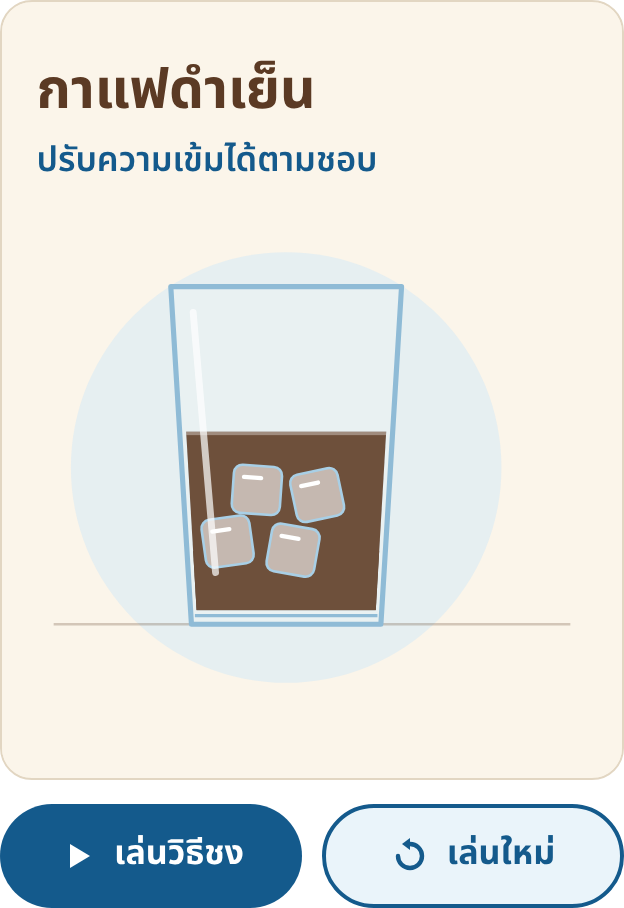
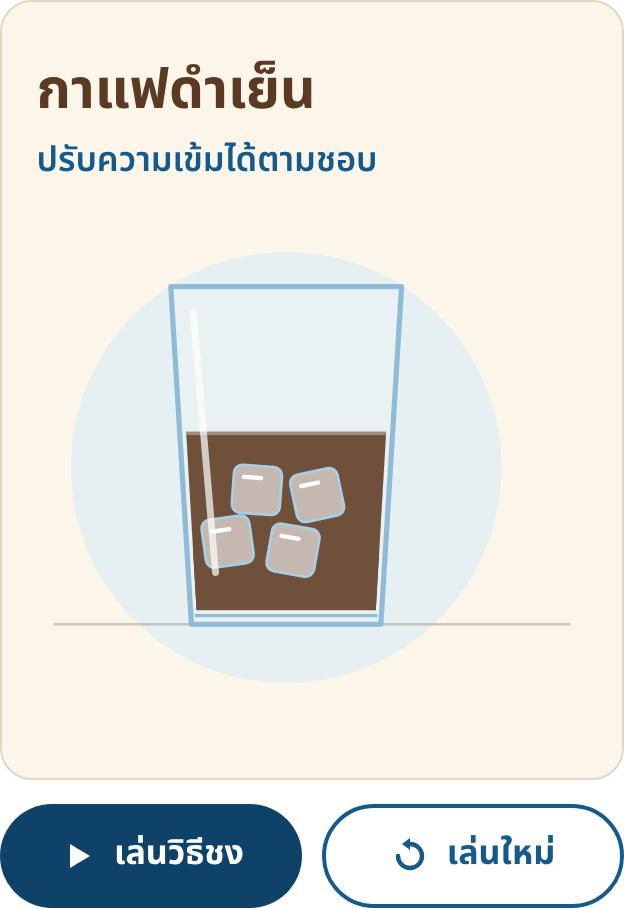
Fix blank Vercel deployment: build config, asset paths, pre-rendered HTML
The Vercel project had no framework preset and the repo had no vercel.json,
so Vercel served the repo root: index.html loaded /src/main.tsx, which a
browser can't run, and the page stayed empty. Separately, Vite's base was
/cold-brew-recipes/ while the build wrote assets to dist/assets/, so even a
built copy would have requested files that don't exist.

- vercel.json: Vite framework, npm ci, npm run build, output dist; / redirects
  to /cold-brew-recipes/, and the page route rewrites to its index.html.
- Build into dist/cold-brew-recipes/ so file paths match the base URL.
- Pre-render the page into index.html and hydrate, so recipes are readable
  before or without JavaScript.
- Optional drink photo per recipe in recipes.ts.
- Pin remotion and @remotion/player to the same exact version.
- Page check now covers routing, refresh, no-JS, image loading, failed
  requests and playback of all four animations; serve-dist.mjs mirrors the
  vercel.json routing locally.

Claude-Session: https://claude.ai/code/session_01NhFLDnAE3nR7iToKXbduQe

Changed region(s): [[0.0, 0.8634, 0.4872, 1.0]]

diff --git a/src/components/RecipeSection.tsx b/src/components/RecipeSection.tsx
@@ -1,5 +1,6 @@
 import { useRef, useState } from "react";
 import { STARTER_NOTE, liquidColors, recipes, type Recipe } from "../config/recipes";
+import { assetUrl } from "../config/site";
 import { RecipeAnimation } from "./RecipeAnimation";
 
 export function RecipeSection() {
@@ -74,6 +75,17 @@ function RecipeDetail({ recipe }: { recipe: Recipe }) {
     <article className="detail" aria-labelledby={`title-${recipe.id}`}>
       <h3 id={`title-${recipe.id}`} className="detail__title">{recipe.name}</h3>
       <p className="note">{STARTER_NOTE}</p>
+      {recipe.photo?.src && (
+        <img
+          className="detail__photo"
+          src={assetUrl(recipe.photo.src)}
+          alt={recipe.photo.alt}
+          width={recipe.photo.width}
+          height={recipe.photo.height}
+          loading="lazy"
+          decoding="async"
+        />
+      )}
 
       <div className="detail__cols">
         <div>

diff --git a/src/main.tsx b/src/main.tsx
@@ -1,13 +1,19 @@
 import { StrictMode } from "react";
-import { createRoot } from "react-dom/client";
+import { createRoot, hydrateRoot } from "react-dom/client";
 import "@fontsource/noto-sans-thai/400.css";
 import "@fontsource/noto-sans-thai/600.css";
 import "@fontsource/noto-sans-thai/700.css";
 import "./styles.css";
 import { App } from "./App";
 
-createRoot(document.getElementById("root")!).render(
+const root = document.getElementById("root")!;
+const app = (
   <StrictMode>
     <App />
-  </StrictMode>,
+  </StrictMode>
 );
+
+// The production build ships the page already rendered (scripts/prerender.mjs), so the
+// recipes are readable before, or without, JavaScript. Attach to it instead of redrawing.
+if (root.hasChildNodes()) hydrateRoot(root, app);
+else createRoot(root).render(app);

diff --git a/src/config/recipes.ts b/src/config/recipes.ts
@@ -23,10 +23,21 @@ export type Pour = {
   caption: string;
 };
 
+export type Photo = {
+  /** Path inside public/, e.g. "images/drink-black.jpg". Leave empty until the photo exists. */
+  src: string;
+  alt: string;
+  /** The photo's real pixel size, so the browser reserves the right space. */
+  width: number;
+  height: number;
+};
+
 export type Recipe = {
   id: string;
   name: string;
   summary: string;
+  /** Optional photo of the finished drink, shown above the ingredients. */
+  photo?: Photo;
   ingredients: Ingredient[];
   steps: [string, string, string];
   /** The two liquids in the order they go into the glass (after the ice). */

diff --git a/vite.config.ts b/vite.config.ts
@@ -1,8 +1,14 @@
 import { defineConfig } from "vite";
 import react from "@vitejs/plugin-react";
 
-// The page is served under /cold-brew-recipes/ (the LINE rich menu links there).
+// The page lives at /cold-brew-recipes/ (the LINE rich menu links there). The build is
+// written to dist/cold-brew-recipes/ so the files sit at the same path on the host as
+// the URLs in the HTML. vercel.json serves dist/ and sends / to this page.
 export default defineConfig({
   base: "/cold-brew-recipes/",
   plugins: [react()],
+  build: {
+    outDir: "dist/cold-brew-recipes",
+    emptyOutDir: true,
+  },
 });

diff --git a/src/entry-server.tsx b/src/entry-server.tsx
@@ -1,0 +1,12 @@
+import { StrictMode } from "react";
+import { renderToString } from "react-dom/server";
+import { App } from "./App";
+
+/** Used at build time (scripts/prerender.mjs) to put the page text into index.html. */
+export function render(): string {
+  return renderToString(
+    <StrictMode>
+      <App />
+    </StrictMode>,
+  );
+}

diff --git a/src/styles.css b/src/styles.css
@@ -347,6 +347,15 @@ main > *,
   color: var(--ocean-deep);
 }
 
+.detail__photo {
+  margin-top: 16px;
+  width: 100%;
+  max-width: 420px;
+  height: auto;
+  border-radius: 16px;
+  background: var(--sky-soft);
+}
+
 .detail__cols {
   display: grid;
   gap: 28px;

diff --git a/README.md b/README.md
@@ -11,17 +11,21 @@ It is a static site built with React 19, TypeScript, Vite and Remotion Player.
 ```bash
 npm install
 npm run dev          # http://localhost:5173/cold-brew-recipes/
-npm run build        # typecheck + production build into dist/
-npm run preview      # serves dist/ at http://localhost:4173/cold-brew-recipes/
+npm run build        # typecheck, build and pre-render into dist/cold-brew-recipes/
+npm run serve:dist   # serves dist/ with the vercel.json routing at http://localhost:4173/
 ```
 
 Page check (Chromium at 390px and 1366px: Thai text, quantities, layout, buttons, player,
 animation length, reduced motion). Writes screenshots to `screenshots/`:
 
 ```bash
-npm run build && npx vite preview --port 4173 &
+npm run build && npm run serve:dist &
 npm run check:page
+PAGE_URL=https://<deployment>/cold-brew-recipes/ npm run check:page   # against a deployed copy
 ```
+
+It also checks `/`, `/cold-brew-recipes` and a refresh, that every image loads, that no request
+fails, that all four animations play, and that the recipes are readable with JavaScript off.
 
 Animation contact sheet, for reviewing every recipe after an edit (dev server only):
 `http://localhost:5173/cold-brew-recipes/dev/frames.html`
@@ -40,10 +44,13 @@ Animation contact sheet, for reviewing every recipe after an edit (dev server on
    file in `public/images/` (e.g. `balena-cold-brew-original-500ml.jpg`), then set
    `productImage.src`, `width` and `height` in `src/config/site.ts`. It is shown whole
    (`object-fit: contain`), never cropped or recoloured.
-2. **`links.order`**, the URL for "สั่งซื้อ Balena Cold Brew".
-3. **`links.ask`**, the URL for "สอบถามวิธีชง" (probably the LINE OA chat link).
+2. **Drink photos (optional).** Put them in `public/images/` and add a `photo` entry
+   (`src`, `alt`, `width`, `height`) to each recipe in `src/config/recipes.ts`. They show above
+   the ingredients.
+3. **`links.order`**, the URL for "สั่งซื้อ Balena Cold Brew".
+4. **`links.ask`**, the URL for "สอบถามวิธีชง" (probably the LINE OA chat link).
 
-Until 2 and 3 are set, both buttons render disabled. In `npm run dev`, a yellow bar at the top
+Until 3 and 4 are set, both buttons render disabled. In `npm run dev`, a yellow bar at the top
 lists whatever is still missing. It never appears in the production build.
 
 ## How it works
@@ -62,13 +69,22 @@ lists whatever is still missing. It never appears in the production build.
   Nothing autoplays, and the player has no sound.
 - **Reduced motion or load failure.** You get a still picture of the finished drink. With
   reduced motion there is also a button to open the animation anyway.
-- **Route.** `vite.config.ts` sets `base: "/cold-brew-recipes/"`, so `dist/` must be served at
-  that path.
+- **Pre-rendered.** `scripts/prerender.mjs` writes the page's HTML into `index.html` at build
+  time, so the recipes show before JavaScript runs (or if it never does).
+- **Route.** `vite.config.ts` sets `base: "/cold-brew-recipes/"` and builds into
+  `dist/cold-brew-recipes/`, so file paths on the host match the URLs in the HTML.
 
 ## Hosting
 
-`dist/` is plain static files, so any static host works (Vercel, Netlify, Cloudflare Pages, an
-existing web server). Point the LINE rich menu button at `https://<your-domain>/cold-brew-recipes/`.
+**Vercel:** `vercel.json` sets everything, so no dashboard settings are needed:
+
+- **Build settings:** framework Vite, install `npm ci`, build `npm run build`, output `dist`.
+- **Routing:** `/` redirects to `/cold-brew-recipes/`, and `/cold-brew-recipes` with or without a
+  trailing slash (including a refresh) serves the page.
+- **Root Directory:** leave empty, since the app is at the repo root.
+
+**Other hosts:** serve the `dist/` folder as static files, redirect `/` to `/cold-brew-recipes/`,
+and point the LINE rich menu button at `https://<your-domain>/cold-brew-recipes/`.
 
 **Carrd:** Carrd can't host a React/Remotion build directly. The options are (a) host `dist/`
 elsewhere and link the Carrd button or LINE menu to it, or (b) on Carrd Pro, add an Embed
